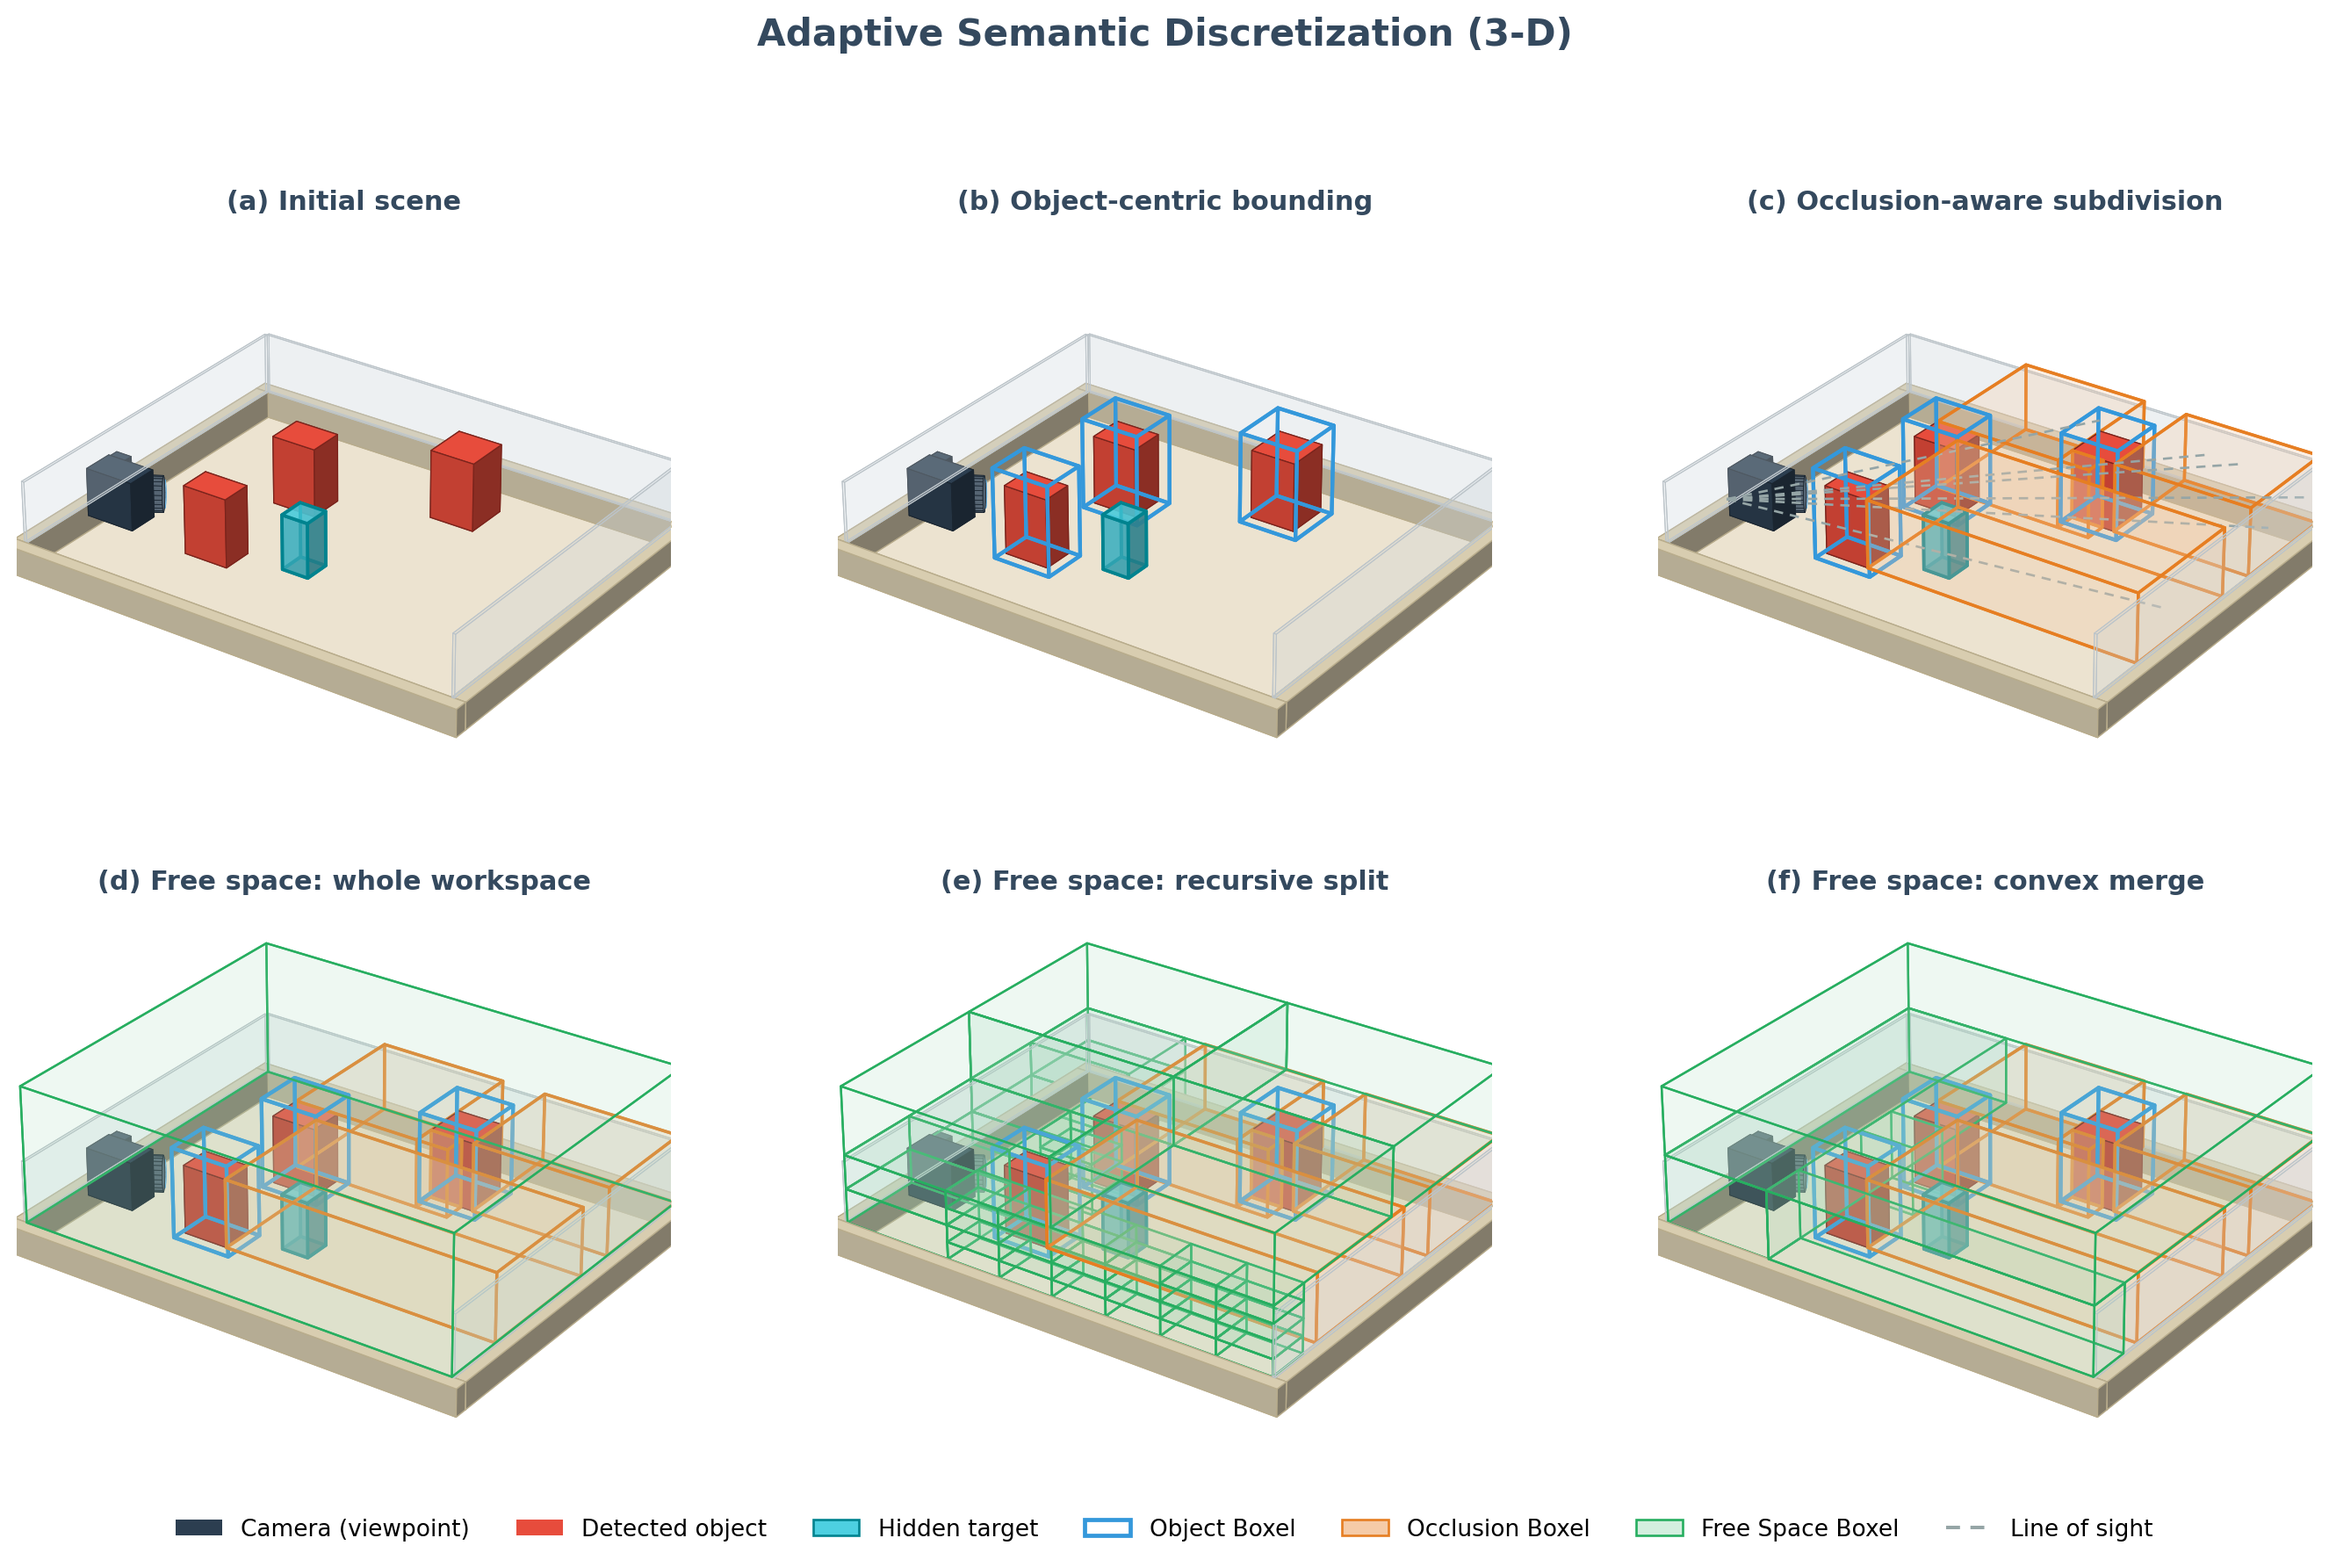
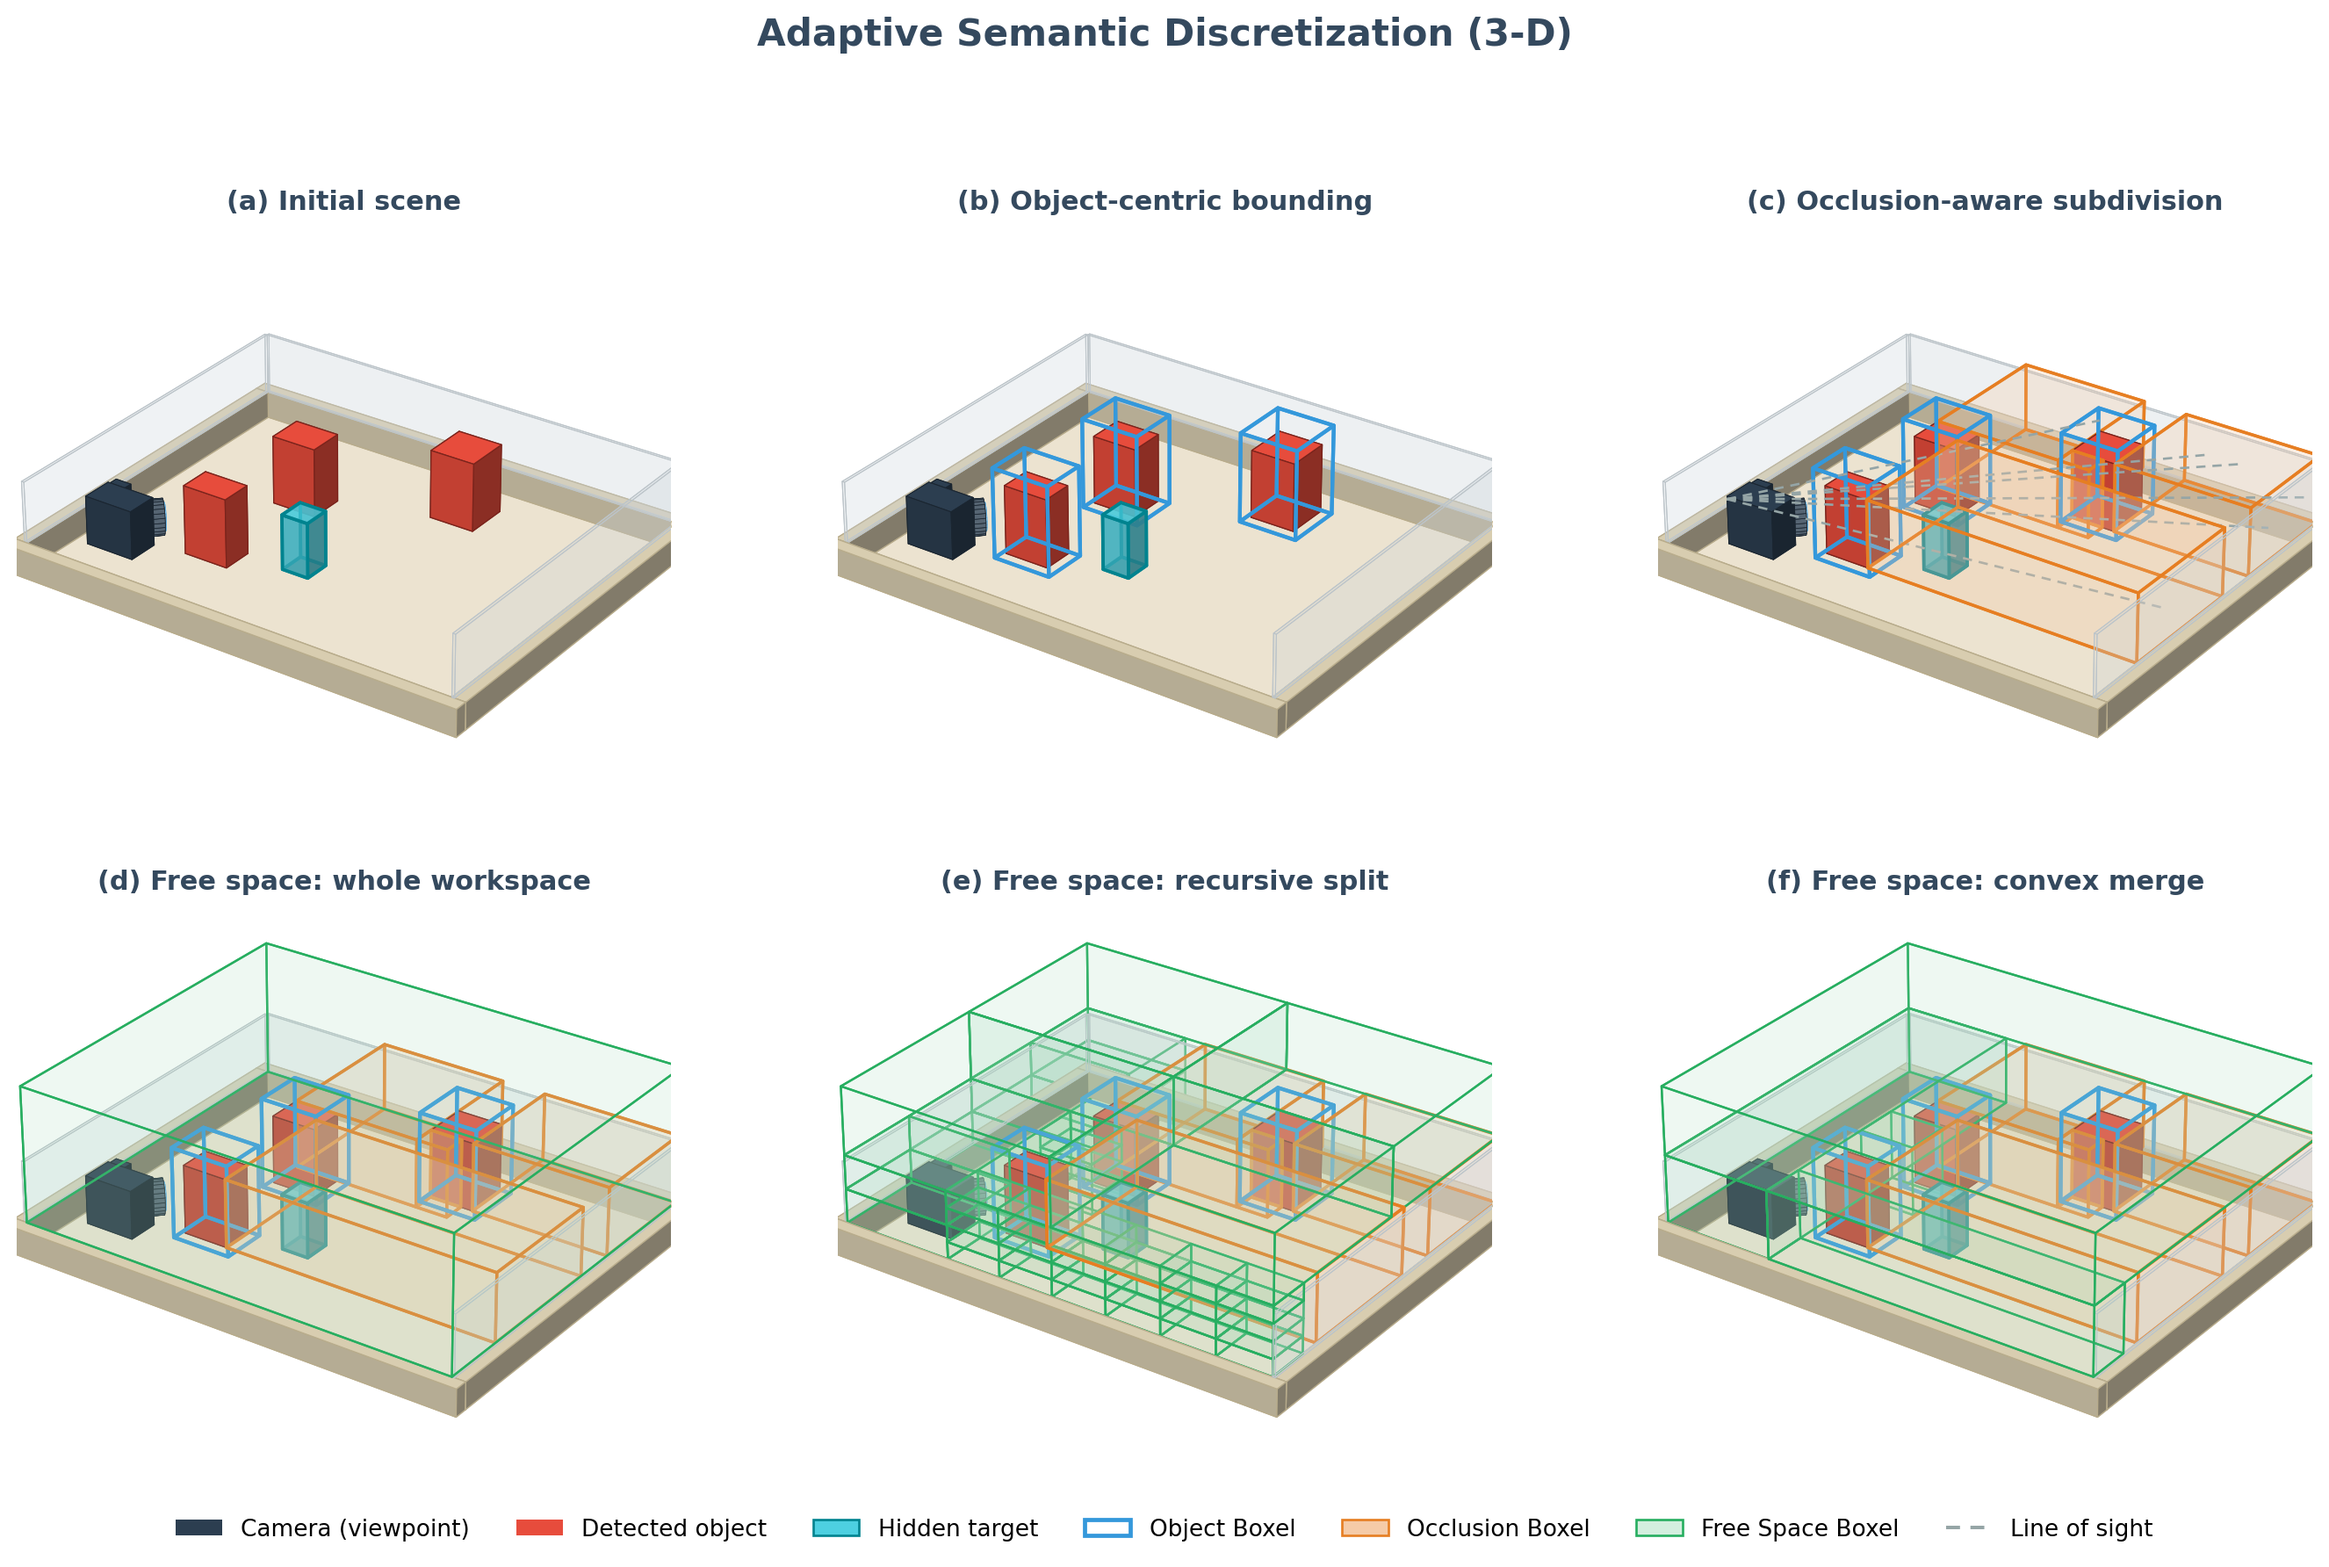
#176: move 3D camera off the perimeter wall (forward into open table space); it previously overlapped the left wall

diff --git a/tools/render_boxelization_3d.py b/tools/render_boxelization_3d.py
@@ -50,8 +50,9 @@ OBJECTS_3D = [o for o in OBJECTS if o[4] != "obj4"]
 OBJ_RECTS_3D = [_rect_of(o) for o in OBJECTS_3D]
 OCC_RECTS_3D = compute_shadows(OBJECTS_3D)
 
-# camera body position (nudged in from the corner so the lens has room)
-CAM = (VIEW[0] + 0.4, VIEW[1] + 0.6)
+# camera body position: pulled forward into open table space toward the open
+# front edge, clear of the perimeter walls (it used to sit on the left wall)
+CAM = (VIEW[0] + 1.1, VIEW[1] - 0.3)
 
 ZTOP = 2.0           # workspace height; the octree's first z-split lands at the
                      # object top, exposing the free LAYER above the objects
